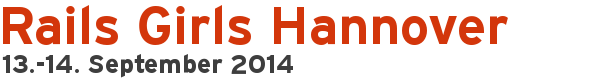
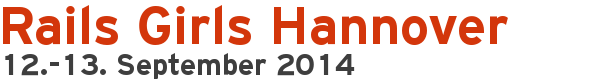
Change wrong date.

Changed region(s): [[0.0, 0.6585, 0.5899, 0.9756]]

diff --git a/hannover.html b/hannover.html
@@ -2,8 +2,8 @@
 <html lang="en">
     <head>
         <meta charset="utf-8">
-        <title>Hannover 13.-14. September 2014</title>
-        <meta name="description" content="Rails Girls goes Hannover 13-14th September 2014: join the two-day crash-course to the exciting world of building web applications with Ruby on Rails.">
+        <title>Hannover 12.-13. September 2014</title>
+        <meta name="description" content="Rails Girls goes Hannover 12-13th September 2014: join the two-day crash-course to the exciting world of building web applications with Ruby on Rails.">
         <meta name="author" content="Rails Girls">
         <link rel="shortcut icon" href="/favicon.png">
         <link rel="apple-touch-icon" href="/apple-touch-icon.png">
@@ -35,7 +35,7 @@
             <div class="grid_12 omega alpha">
                 <div id="promo" class="hannover">
                     <h1>Rails Girls Hannover
-                        <small>13.-14. September 2014</small>
+                        <small>12.-13. September 2014</small>
                     </h1>
                     <p>Moin,</p>
                     <p>
@@ -45,7 +45,7 @@
                     <div id="share">
                         <div>
                             <div style="margin:0 15px 0 0;">
-                                <a href="http://twitter.com/share" class="twitter-share-button" data-url="" data-text="Rails Girls Hannover 13-14th September 2014 - apply now!" data-count="horizontal" data-via="railsgirls" data-related="railsgirls">
+                                <a href="http://twitter.com/share" class="twitter-share-button" data-url="" data-text="Rails Girls Hannover 12-13th September 2014 - apply now!" data-count="horizontal" data-via="railsgirls" data-related="railsgirls">
                                 Tweet</a>
                                 <script type="text/javascript" src="http://platform.twitter.com/widgets.js"></script>
                             </div>
@@ -69,7 +69,7 @@
                 <hr />
                 <!--  Update the texts! -->
                 <div class="grid_6 alpha">
-                    <h2>Freitag 13. September</h2>
+                    <h2>Freitag 12. September</h2>
                     <table id="schedule">
                         <tbody>
                             <tr>
@@ -90,7 +90,7 @@
                         </tbody>
                     </table>
                     <hr />
-                    <h2>Samstag 14. September</h2>
+                    <h2>Samstag 13. September</h2>
                     <table id="schedule">
                         <tbody>
                             <tr>
@@ -160,7 +160,7 @@
                     <h3>Informationen</h3>
                     <p>
                     <p><strong><a href="https://railsgirlshannover.wufoo.com/forms/railsgirls-hannover-september-2014/">Anmeldungen</a> bis:</strong> 30. August<br/>
-                        <strong>Anmeldebestätigung bis:</strong>2. September
+                        <strong>Anmeldebestätigung bis:</strong> 2. September
                     </p>
                     <strong>Ort:</strong>
                     <p>
